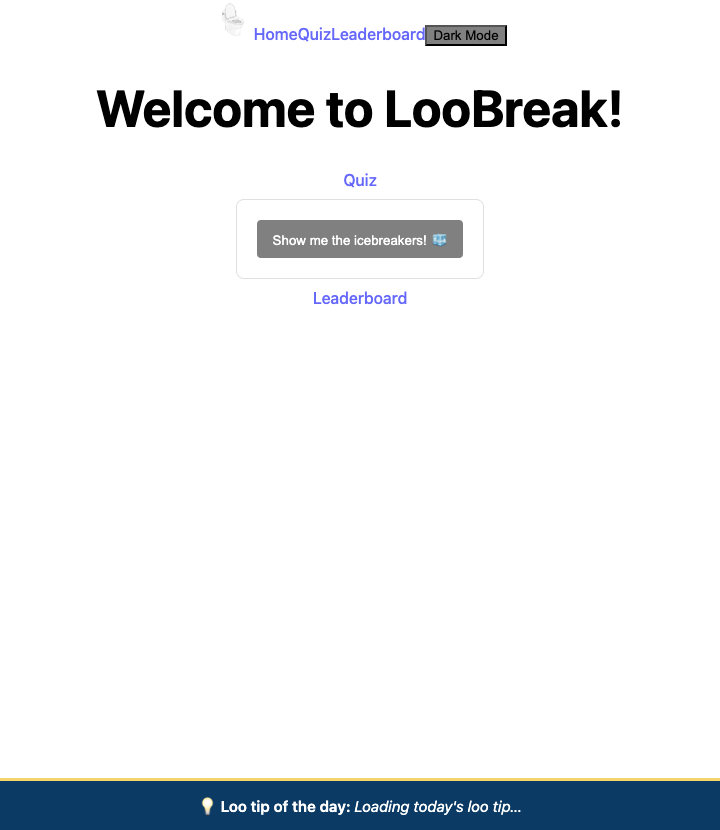
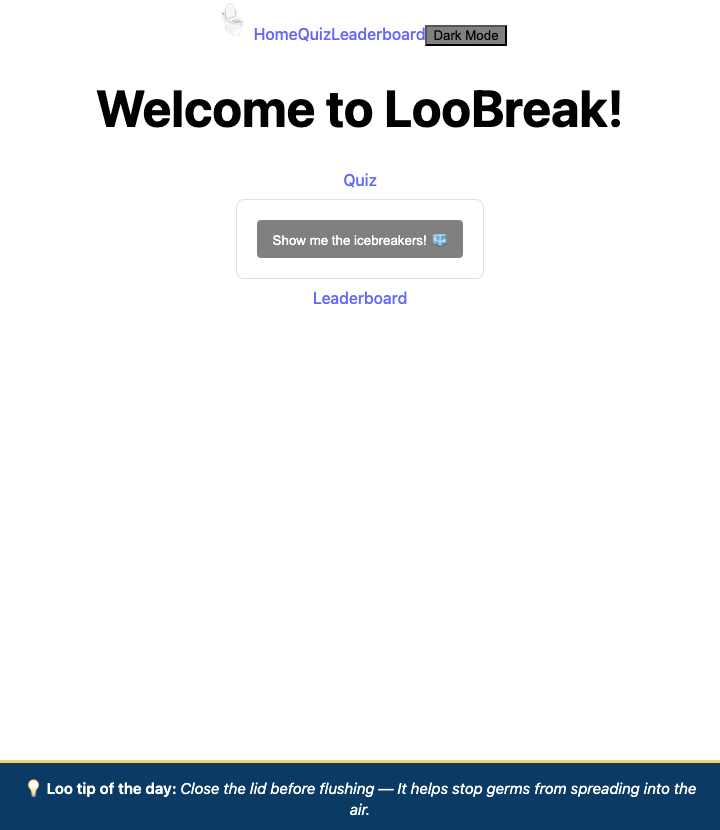
fix selectors

Changed region(s): [[0.0, 0.9036, 1.0, 0.994]]

diff --git a/src/test/java/PageObjectModels/QuizPage.java b/src/test/java/PageObjectModels/QuizPage.java
@@ -31,11 +31,11 @@ public class QuizPage {
     }
 
     public void submitAnswer() {
-        driver.findElement(By.cssSelector(".feed > button")).click();
+        driver.findElement(By.cssSelector("div > button:nth-child(5)")).click();
     }
 
     public void goToNextQuestion() {
-        driver.findElement(By.cssSelector(".feed > button")).click();
+        driver.findElement(By.cssSelector("div > button:nth-child(5)")).click();
     }
 
     public String getQuestionNumber() {
@@ -44,7 +44,7 @@ public class QuizPage {
     }
 
     public String getScore() {
-        String score = driver.findElement(By.cssSelector("p:nth-child(4)")).getText();
+        String score = driver.findElement(By.cssSelector("p:nth-child(3)")).getText();
         return score;
     }
 

diff --git a/src/test/java/IcebreakerTests.java b/src/test/java/IcebreakerTests.java
@@ -11,10 +11,10 @@ public class IcebreakerTests {
     private BrowserConfig config;
 
     @BeforeEach
-    void launchBrowser() {
+    void launchBrowser() throws Exception{
         config = new BrowserConfig();
         BrowserConfig config = new BrowserConfig();
-        driver = config.BrowserSelect("chrome");
+        driver = config.BrowserSelect("safari");
         config.windowMode("portrait");
     }
 